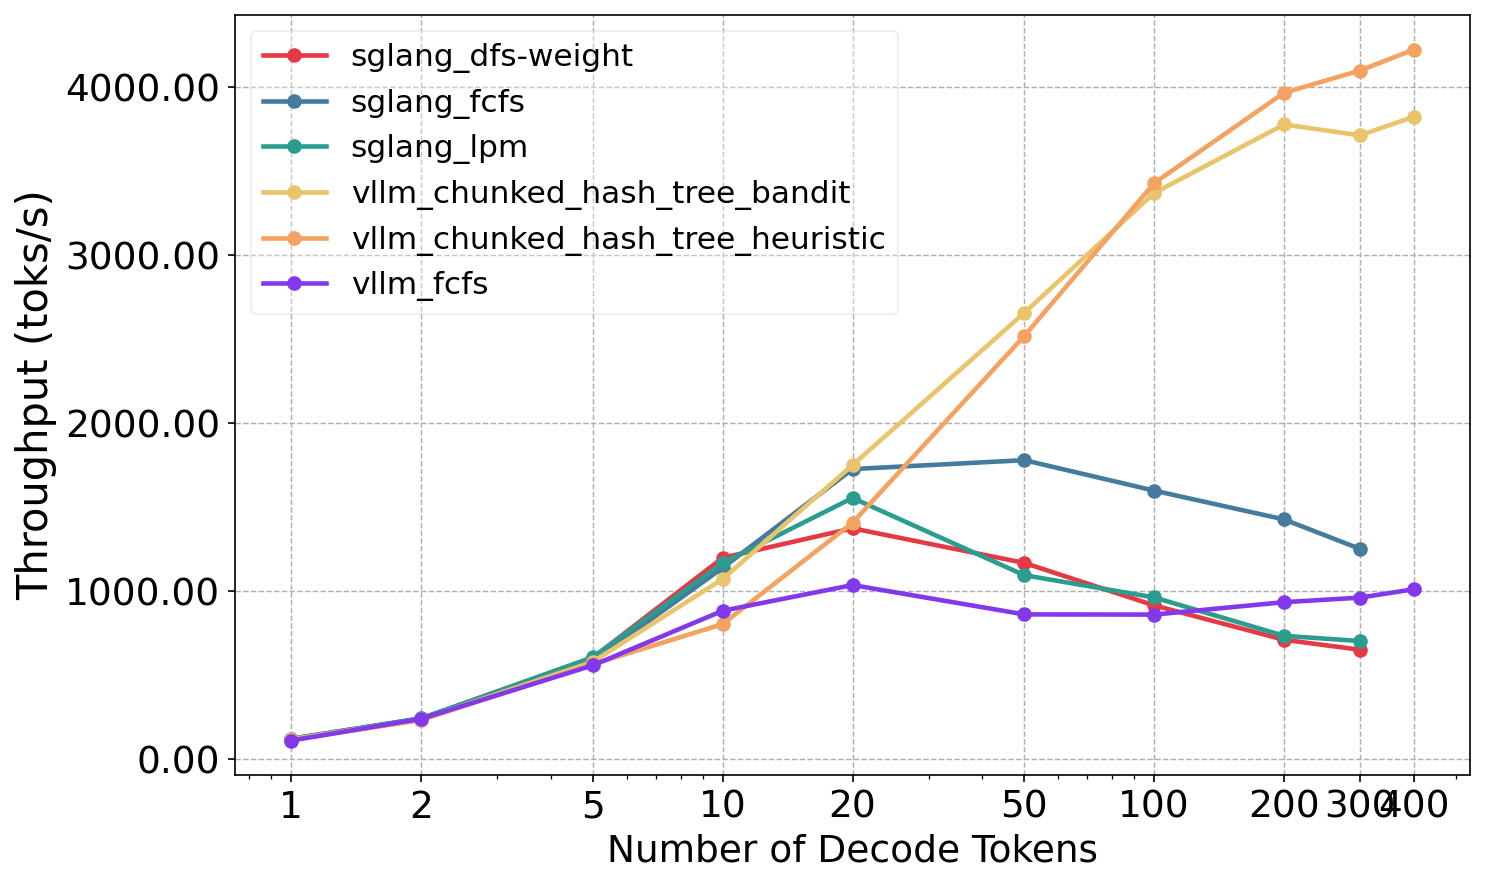
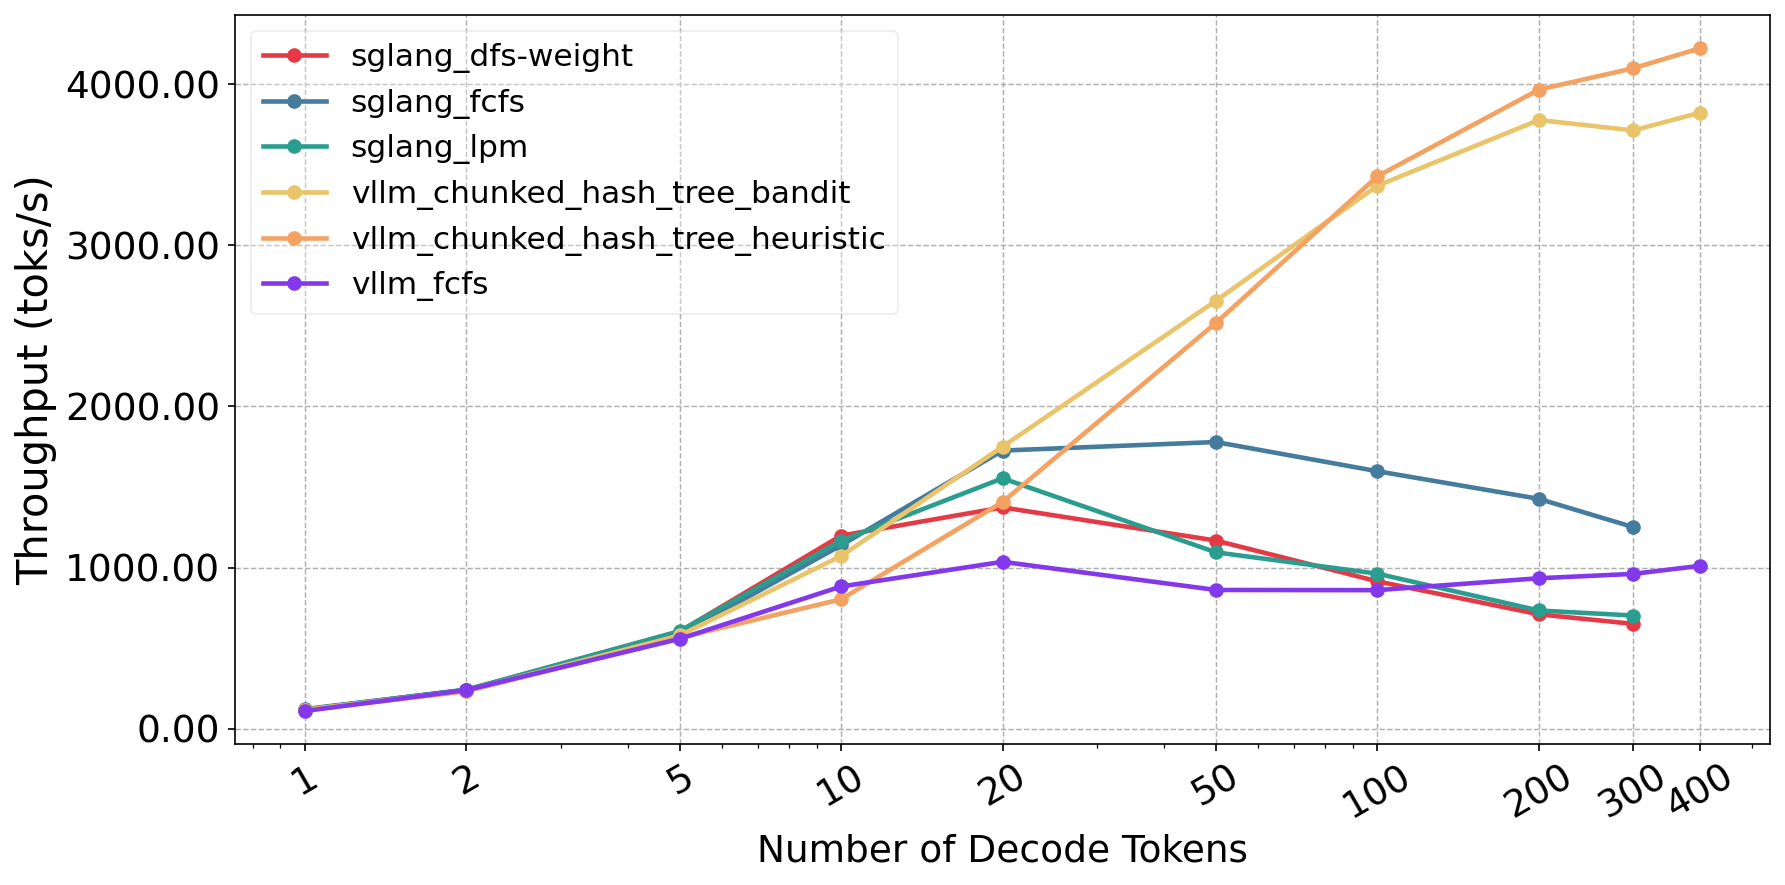
tp vs decode

Changed region(s): [[0.062, 0.0305, 1.0, 0.9763], [0.0, 0.0305, 0.5886, 0.7017], [0.3717, 0.4576, 0.4027, 0.4881]]

diff --git a/code/vllm/decode_tokens_logs/plot.py b/code/vllm/decode_tokens_logs/plot.py
@@ -105,7 +105,7 @@ PALETTE = [
 all_tokens = sorted({tok for policy in data.values() for tok in policy})
 
 def make_plot(metric_key, ylabel, title, outpath):
-    fig, ax = plt.subplots(figsize=(10, 6))
+    fig, ax = plt.subplots(figsize=(12, 6))
 
     color_cycle = iter(PALETTE)
     policies = sorted(data.keys())
@@ -132,6 +132,7 @@ def make_plot(metric_key, ylabel, title, outpath):
 
     # dynamic ticks
     ax.set_xticks(all_tokens)
+    ax.set_xticklabels(all_tokens, rotation=30)
     ax.get_xaxis().set_major_formatter(ticker.ScalarFormatter())
 
     # proper tick formatting
